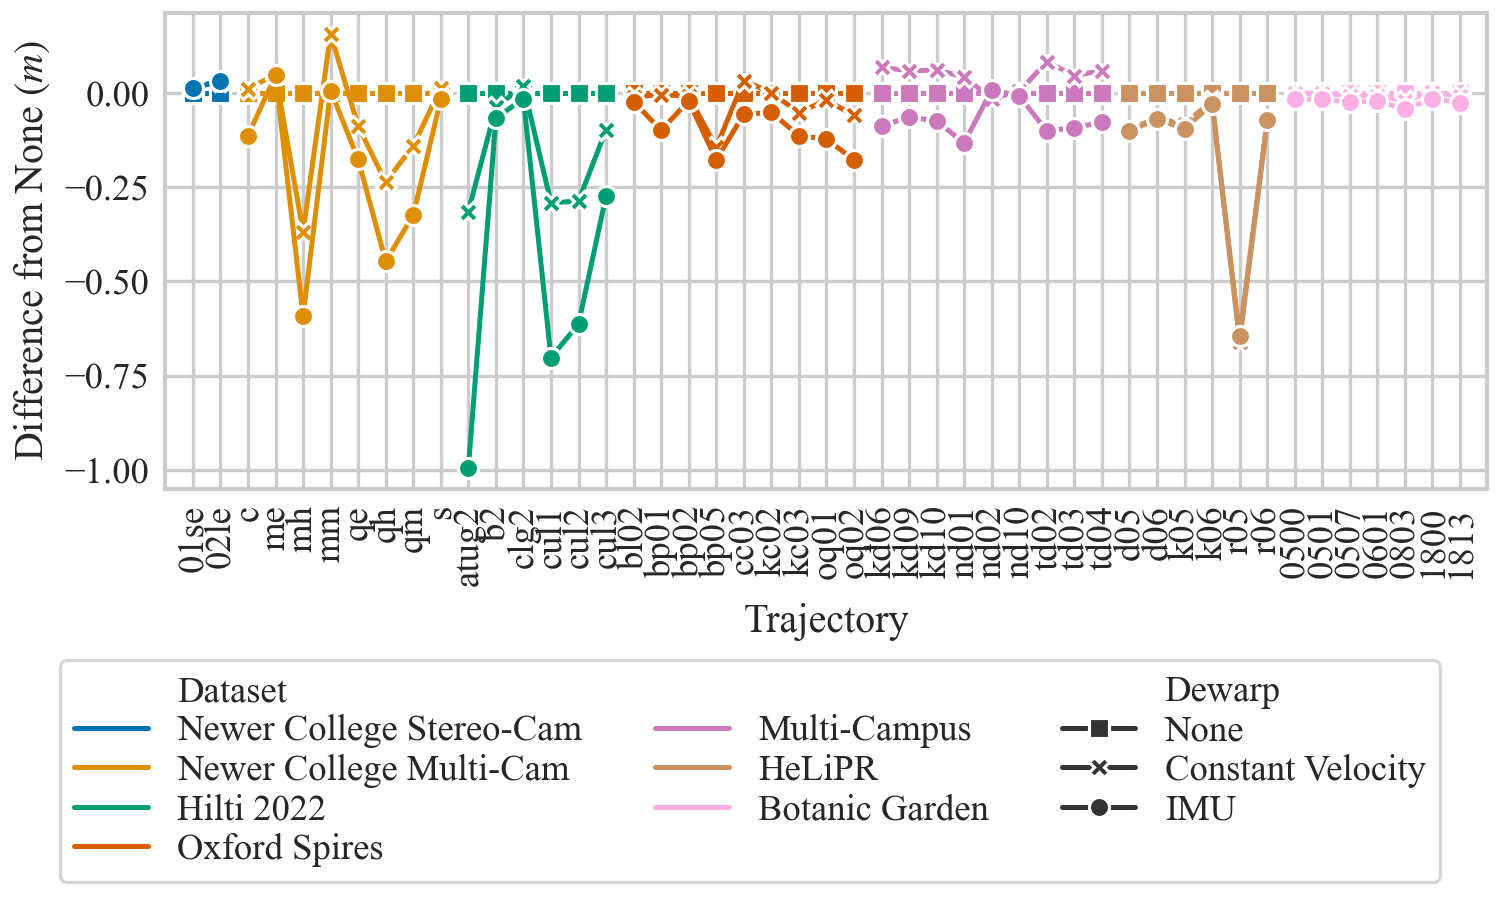
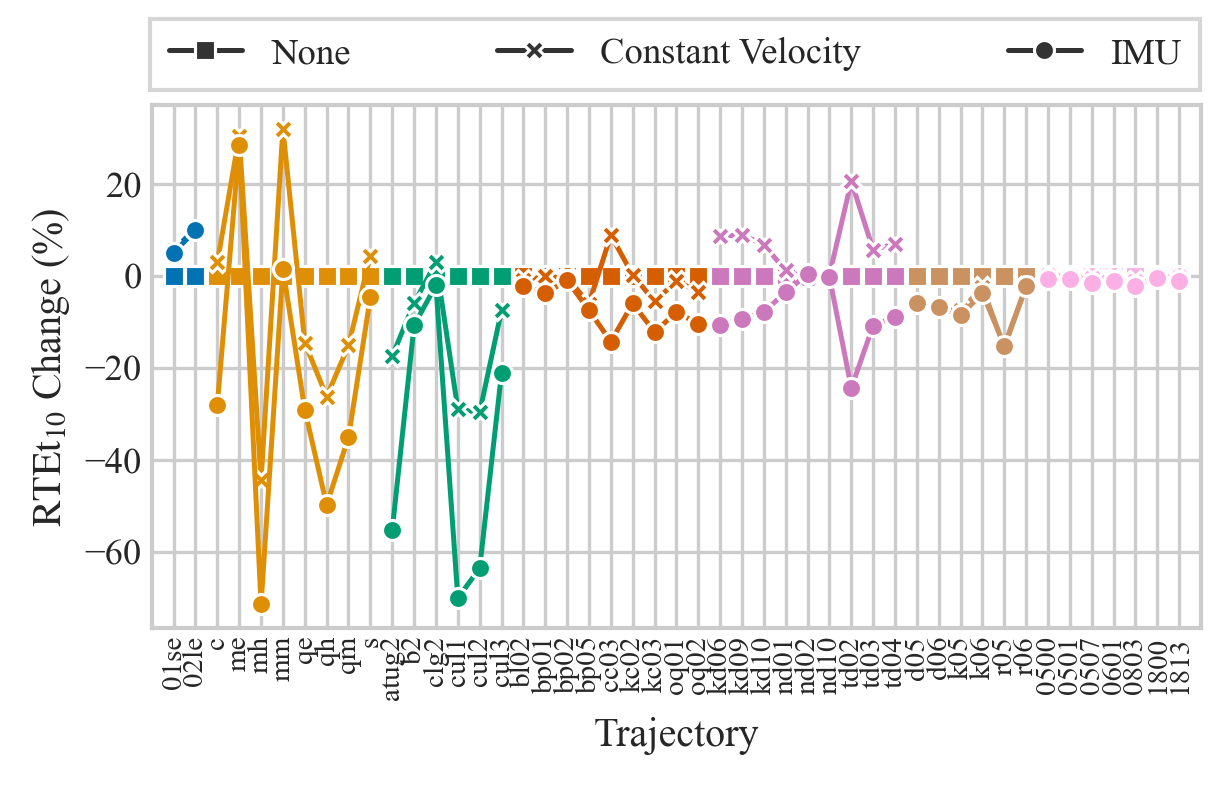
Clean up dewarp and init figure

diff --git a/experiments/dewarp.py b/experiments/dewarp.py
@@ -3,14 +3,13 @@ import seaborn as sns
 import matplotlib.pyplot as plt
 import polars as pl
 import sys
-import numpy as np
 
 sys.path.append("src")
 from params import ExperimentParams, Feature, Initialization, Dewarp
 from wrappers import parser, plt_show, setup_plot
 from run import run_multithreaded
 from stats import compute_cache_stats
-from env import ALL_TRAJ, LEN, RESULTS_DIR
+from env import ALL_TRAJ, LEN, RESULTS_DIR, COL_WIDTH
 
 
 dir = RESULTS_DIR / "25.02.18_dewarp_with_edges_cv_init"
@@ -22,7 +21,6 @@ def run(num_threads: int):
         Dewarp.Identity,
         Dewarp.ConstantVelocity,
         Dewarp.Imu,
-        # Dewarp.GroundTruthConstantVelocity,
     ]
 
     # ------------------------- Compute product of options ------------------------- #
@@ -43,8 +41,6 @@ def run(num_threads: int):
 def plot(name: str, force: bool):
     df = compute_cache_stats(dir, force=force)
 
-    # df = df.filter(pl.col("Initialization") == "GroundTruth")
-
     # Get identity versions
     df_identity = df.filter(pl.col("Dewarp") == "None").select(["dataset", "w100_RTEt"])
 
@@ -55,13 +51,18 @@ def plot(name: str, force: bool):
         df = df.with_columns(
             percent=pl.when(pl.col("dataset") == dataset)
             # THIS IS THE LINE THAT ACTUALLY COMPUTES THINGS
-            .then(pl.col("w100_RTEt") - id_val)
+            .then(100 * (pl.col("w100_RTEt") - id_val) / id_val)
             .otherwise(pl.col("percent"))
         )
 
     _c = setup_plot()
     fig, ax = plt.subplots(
-        1, 1, figsize=(5, 3), layout="constrained", sharey=False, sharex=True
+        1,
+        1,
+        figsize=(COL_WIDTH + 0.5, 2.25),
+        layout="constrained",
+        sharey=False,
+        sharex=True,
     )
 
     sns.lineplot(
@@ -77,31 +78,38 @@ def plot(name: str, force: bool):
         legend=True,
     )
     # blank line for the legend
-    ax.plot(np.NaN, np.NaN, "-", color="none", label=" ")
+    # ax.plot(np.NaN, np.NaN, "-", color="none", label=" ")
 
     # Reorder the legend to put blank one in the right spot
     handles, labels = ax.get_legend_handles_labels()
-    handles.insert(5, handles.pop(-1))
-    labels.insert(5, labels.pop(-1))
+    # handles.insert(5, handles.pop(-1))
+    # labels.insert(5, labels.pop(-1))
+    handles = handles[-3:]
+    labels = labels[-3:]
 
     ax.legend().set_visible(False)
-    ax.tick_params(axis="x", pad=-1, rotation=90)
-    ax.tick_params(axis="y", pad=-1)
+    ax.tick_params(axis="x", pad=-3, rotation=90, labelsize=7)
+    ax.tick_params(axis="y", pad=-2.4)
 
-    ax.set_ylabel("Difference from None $(m)$", labelpad=3)
+    ax.set_ylabel(r"$\text{RTEt}_{10}$ Change (%)", labelpad=3)
 
     traj = df.select("Trajectory").unique().to_numpy()
     xmax = len(traj) - 1
     extra = 1.0
     ax.set_xlim(0.0 - extra, xmax + extra)
 
-    fig.legend(
+    leg = fig.legend(
         handles=handles,
         labels=labels,
         ncol=3,
-        loc="outside lower center",
+        borderpad=0.2,
         labelspacing=0.15,
-    )
+        loc="outside upper left",
+        columnspacing=4.0,
+        bbox_to_anchor=(0.105, 1.12),
+    ).get_frame()
+    leg.set_boxstyle("square")  # type: ignore
+    leg.set_linewidth(1.0)
     plt_show(name)
 
 

diff --git a/experiments/init.py b/experiments/init.py
@@ -2,10 +2,9 @@ import seaborn as sns
 import matplotlib.pyplot as plt
 from itertools import product
 import sys
-import numpy as np
 
 sys.path.append("src")
-from env import ALL_TRAJ, LEN, RESULTS_DIR
+from env import ALL_TRAJ, COL_WIDTH, LEN, RESULTS_DIR
 from params import ExperimentParams, Feature, Initialization
 from stats import compute_cache_stats
 from run_init import run_multithreaded
@@ -39,7 +38,12 @@ def plot(name: str, force: bool):
 
     _c = setup_plot()
     fig, ax = plt.subplots(
-        1, 1, figsize=(5, 3), layout="constrained", sharey=False, sharex=True
+        1,
+        1,
+        figsize=(COL_WIDTH + 0.5, 2.0),
+        layout="constrained",
+        sharey=False,
+        sharex=True,
     )
 
     sns.lineplot(
@@ -55,31 +59,38 @@ def plot(name: str, force: bool):
         legend=True,
     )
     # blank line for the legend
-    ax.plot(np.NaN, np.NaN, "-", color="none", label=" ")
+    # ax.plot(np.NaN, np.NaN, "-", color="none", label=" ")
 
     # Reorder the legend to put blank one in the right spot
     handles, labels = ax.get_legend_handles_labels()
-    handles.insert(5, handles.pop(-1))
-    labels.insert(5, labels.pop(-1))
+    # handles.insert(5, handles.pop(-1))
+    # labels.insert(5, labels.pop(-1))
+    handles = handles[-3:]
+    labels = labels[-3:]
 
     ax.legend().set_visible(False)
-    ax.tick_params(axis="x", pad=-1, rotation=90)
-    ax.tick_params(axis="y", pad=-1)
+    ax.tick_params(axis="x", pad=-3, rotation=90, labelsize=7)
+    ax.tick_params(axis="y", pad=-2.4)
 
     traj = df.select("Trajectory").unique().to_numpy()
     xmax = len(traj) - 1
     extra = 1.0
     ax.set_xlim(0.0 - extra, xmax + extra)
 
-    ax.set_ylabel(r"$RTEt_{10}\ (m)$", labelpad=1)
+    ax.set_ylabel(r"$\text{RTEt}_{10}\ \ (m)$", labelpad=-2)
     ax.set_yscale("log")
-    fig.legend(
+    leg = fig.legend(
         handles=handles,
         labels=labels,
         ncol=3,
-        loc="outside lower center",
+        borderpad=0.2,
         labelspacing=0.15,
-    )
+        loc="outside upper left",
+        columnspacing=3.75,
+        bbox_to_anchor=(0.09, 1.14),
+    ).get_frame()
+    leg.set_boxstyle("square")  # type: ignore
+    leg.set_linewidth(1.0)
     plt_show(name)
 
 
